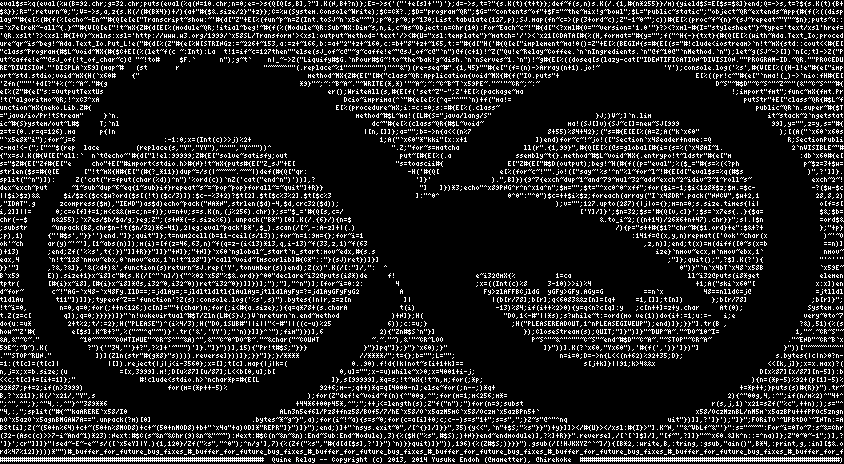
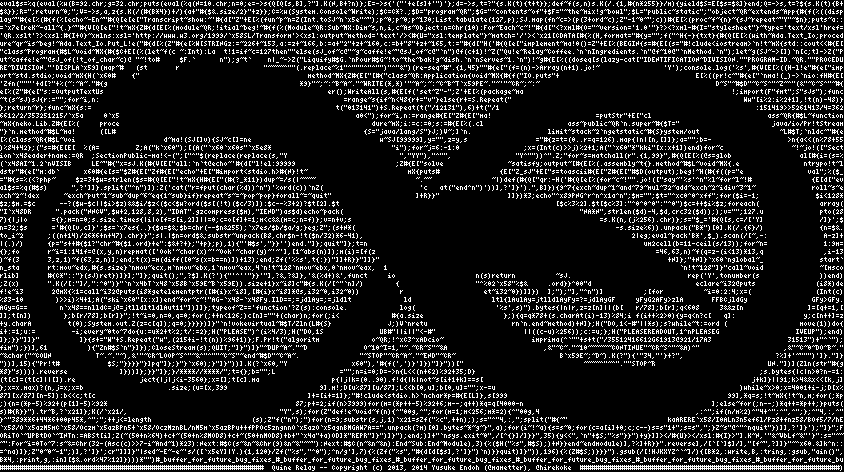
Grass in, Gri out.

Changed region(s): [[0.0, 0.0, 1.0, 0.9957]]

diff --git a/QR.rb b/QR.rb
@@ -9,50 +9,51 @@ ut~caffe!e~"@sJ_of(!t_of_char~c)@ "~!to#     $F.`      n");g~t`    n|_~->Z("Liqu
 RE~DIVISION."'DISPLA`x59](map~#   (st       r                     "~~~~^""(.replace~%1"^"""^"^"")"^"&")(re-seq~#".{1,45}""#{e["(f=(n)->Array(n+1).jo!~                'Y');console.log('%s',#{V[E[%((H-l!e"#{e["imp
 ort~std.stdio;void~mX{H(`x60#    {"                                          method~MX{Z#{E["[#{"class~QR:Application{void~MX{#{f("IO.puts"+                                  E[%((pr!c~"#{e["`nma!(_)->`nio:fH#{E[
 'Zfn("""'+d[?"+%(~:~A~."#{g                                                *9}"~;~:~B~A~."~WRITE(*,*)'"~A~;~:~C~B~T`x59PE~."~'"~CR~;~:~                                            D~S"~#$D"~C~S^"~Z~^"(&"~C~S^"~#{
-e[%(Z"#{e["s:=OutputTextUs                                                        er();WriteAll(s,#{E[f('set~Z"-";Z'+E[%(package~ma                                                    !;import"fmt";func~mX{fmt.Pr
-!t("algoritmo~QR;!^xC3^xA                                                             Dcio~imprima(^`"#{e[e[%(^q="^""`n)+f("ma!=                                                          putStr"+E["class~QR{#$L~f
-unction~mX{neko.Lib.Z#{                                                             E[%(procedure~mX;i:=c:=0;s:=#{E[%(.class~                                                                public~QR`n.super~#{$T
-="java/io/Pr!tStream"     }`n.                                                           method~#$L~ma!([L#{S="java/lang/S"                          }J;)V~;]`n.lim                             it~stack~2`ngetstat
-ic~#{S}ystem/out~L#$     T;`nl                                                               dc~"#{e[%(class~QR{#$L~void~                     ma!(SJ[]v){SJ~c[]=new~SJ[999                       99],y="",z=y,s="#{
-z=t=(0..r=q=126).ma      p{|n                                                              |[n,[]]};a="";b=->n{a<<(n%7                   8+55)%84+42};("s=#{E[E[%(A=Z;A("k`x60"                    );[(A("`x60`x60s
-"`x5e8*"i");for~j=6                      :-1:0;x=(Int(c)>>j)%2+                                1;A("`x60"*"kki"[x:x+1                 ])end)for~c~!~jo!(["Section`x48eader+name:=Q                   R;SectionPubli
-c-ma!<-(";["^"$(rep  lace         (replace(s,"Y","YY"),"^"","Y^""))^                              ".Z;"for~s=matcha                ll(r".{1,99}",#{Q[E[%(@s=global[#{i=(s=%(`x48AI~1.                 2`nVISIBLE~"#
-{"x=sJ.K(#{V[E["all:`  n`t@echo~'#{d["l!el:99999;Z#{E["solve~satisfy;out                            put~[#{E[%(.a                ssembly~t{}.method~#$L~void~MX{.entrypo!t~ldstr"#{e["m                 :db`x60#{e[
-s="$Z#{E["Zf#{E["e     cho"+E["#import<stdio.h>#{N}!t~mX{puts#{E["Z_sJ"+E[                         "s=toascii#{                E["Z#{E["#$D(output);beg!~H(#{f((p="eval";%($_="#{s=%(<?ph                p~$z=3+$w=
-strlen($s=#{Q[E      ["!t~mX{H#{E["(#{?_*11})dup~=/s(|~~~~~.~~~|)def(#{Q["qr:                         -H('#{Q[               e[%(for~c~!"".jo!(["say~'%s'^n"%l~for~l~!#{E[d["eval$s=%q(#$s                )",?']]}.
-split("^n")]):     Z('cat("r=fput(char(%d))^n")'%ord(c))`nZ('cat("end^n")'))],?                         ']}'               ).",B]}){9~7{exch~dup~1~and~79~mul~32~add~exch~2~idiv~3~1~roll~s~               exch~2~!
-dex~exch~put      ~1~sub~dup~6~eq{1~sub}if}repeat~s~=~pop~pop}forall~=~quit"]+R}}                        "]   ]})*3;echo"^x89PNG^r^n^x1a^n";$m="";$t="^xc0^0^xff";for($i=-1;$i<128*$z;$m.=$c-              -?($w-$c
-||$i>$z)&&      $i/$z<($c<$w?ord($s[(!t)($c/3)]):$c--%3+2)?$t[2].$t[$c%3%2].$t[$c%3                     ]:"^0^                 0^0":"^0")$c=++$i%$z;foreach(array("I`x48DR".pack("NNCV",$w+2,1              28,8,2)
-,"IDAT".g      zcompress($m),"IEND")as$d)echo~pack("NA*N",strlen($d)-4,$d,crc32($d));                                                      );v="";127.upto(287){|j|o={};m=n=0;s.size.times{|i|               o[f=s[
-i,2]]||=      0;c=o[f]+=1;m<c&&(m=c;n=f)};v=n+v;s=s.K(n,(j%256).chr)};s="$_='#{Q[s,c=/                                                           ['Y]/]}';$n=32;$s='#{Q[v,c]}';$s=`x7es{..}{$a=              $&;$b=
-chr(--$      n&255);`x7es/$b/$a/g;}eg;Z";(s+N*(-s.size%6)).unpack("B*")[0].K(/.{6}/){n=$                                                              &.to_i~2;((n+14)/26*6+n+47).chr}}";s|.|$n              =ord$&
-;substr      ~unpack(B8,chr$n-!t($n/32)*6-41),2|eg;eval~pack'B*',$_).scan(/[~,-:A-z]+|(.)                                                                 /){p="s++#{$1?"chr~#{$1.ord}+e":$&+?+              };"+p}
-;p),1)      {"'#$s',"}}'')end."]};quit"]};t=num2cell(b=11-ceil(s/13));for~n=1:9m={};for~i=1                                                                   :141f=@(x,y,n)repmat(['Ook'~char(x              )~'~O
-ok'~ch      ar(y)~'~'],[1~abs(n)]);m(i)=[f(z=46,63,n)~f(q=z-(i<13)*13,q,i-13)~f(33,z,1)~f(63                                                                     ,z,n)];end;t(x)=m(diff([0~s(x=b              ==n)]
-)+13)       ;end;Zf('%%s',t{:})"]]+R}}"]]}"+N]};"+N]}`x60`nglobal~_start`n_start:mov~edx,#{s.s                                                                      ize}`nmov~ecx,m`nmov~ebx,1`               nmov~
-eax,4       `n!t~128`nmov~ebx,0`nmov~eax,1`n!t~128"]}"call~void~[mscorlib]#{C*"::"}(sJ)ret})]}]                                                                        ;"]};quit();",?$].K(?'){              "'^''"
-}}'"]       ,?&,?&]},'&(%d+)&',function(s)return~sJ.rep('Y',tonumber(s))end);Z(x)".K(/[:"]/,":  ^                                                                         0")}"`n`x4bT`x48`x58B              `x59E~
-B`x59       E)).size+1}x~i8]c"#{s.K(/[^"`n]/){"^%02`x58"%$&.ord}}^00"declare~i32@puts(i8*)de     f!                    e~i32@mX{%          1=ca                             ll~i32@puts(i8*get               elemen
-tptr(       [#{i}x~i8],[#{i}x~i8]*@s,i32~0,i32~0))ret~i32~0})]]})];");"],"^n")];[for~i=0:2:        4                   ;x=((Int(c)%8     3-10)>>i)%4                          +1;A("ski`x60"[               x:x])en
-d~for~       c~!"AG-`x48-`x48Fy.IlD==;=jdlAy=;=jldltldltl{lAulAy=jtlldlAyFy=?=jdlAyGFyFyG2          A                    Fy>zlAFFBCjldG  yGFy>GFy.AGy=G          ==n`x          48==nlldC=j@                =jtlldl
-tldlAu        t11"])]]};typeof~Z=='function'?Z(s):console.log('%s',s)").bytes{|n|r,z=z[n             ]|                    |(b[r/78];b[r];q<6083&&z[n]=[q+     =1,[]];t[n])       };b[r/78]                ;b[r]}";
-!t~i=0,        n=0,q=0;for(;++n<126;)c[n]=""+(char)n;for(;i<#{a.size};){q=q*78+(s.charA             t(i)                    -13)%84;if(i++%2>0){y=q<n?c[q]:y   ;c[n++]=z+y.char     At(0);                System.ou
-t.Z(z=c[        q]);q=0;}}}})]}"`n!vokevirtual~#$T/Zln(L#{S}J;)V`nreturn`n.end~method             )+N]};H(                    "DO,1<-#"||*s);s?while~t:=ord(mo ve(1))do{i+:=1;u:=-   i;e                 very~0to~7
-do{u:=u*         2+t%2;t/:=2};H("PLEASE")^(i%4/3);H("DO,1SUB#"||i||"<-#"||((c-u)%25              6));c:=u;}                     ;H("PLEASEREADOUT,1^nPLEASEGIVEUP");end)]};}}"].tr(B ,                  ?&),51){%(s
-how~"Z'#{         e[$s].K~B+?",%("~"^q"~")}'.tr('&','YY');"`n)}]]}^`");fim")})],6              2){"Zn#$S`n"}]                      });CloseStream(s);QUIT;"]}")]}"~DUP~A~."~DO~10~I=                   1,"~.~CR~S"~
-&A,&"~C~."          ~10~~~~~~CONTINUE"~CR~S^"~&A)^",&"~C~0~DO~B~."~&char("~COUNT             ~.~."~),&'"~CR~LOO                      P~S^"~&^"^""~C~S"~end~#$D"~C~A~."~STOP"~CR~A~                   ."~END"~CR~B`x
-59E~;~D~).K(          ?"){'"34,"'}+?",?%]+'~""")']}."]}"))],15){"Pr!t#$S;"}}}              }"}]pq"]};}"}`x60);}"                        ]}"))].K(?`x60,"Yx60"),'#{f(',')}']})"]                     }"))["~~~~^"~^"
-.""STOP~RUN."           ])](Zln(str"#{g*8}"s)))).reverse]}))]};}}"]};}/****               //****/";t={};b="";L="";                          n=i=0;D=->n{L<<(n+62)%92+35;D};                       s.bytes{|c|n>0?n-
-=1:(t[c]=(t[c]|            |[]).reject{|j|j<i-3560};x=[];t[c].map{|j|k=(                0..90).f!d{|k|not~s[i+1+k]==                              s[j+k]}||91;k>4&&x                            <<[k,j]};x=x.max)?(
-n,j=x;x=b.size;(u             =[x,3999].m!;D[u%87][u/87];L<<b[0,u];b[                0,u]="";x-=u)while~x>0;x=4001+i-j;                                                                       D[x%87][x/87][n-5]):b
-<<c;t[c]+=[i+=1]};"                #!clude<stdio.h>`nchar*p=#{E[L                  ]},s[99999],*q=s;!t~mX{!t~n,m;for(;*p;                                                                   ){n=(*p-5)%92+(p[1]-5)%
-92*87;p+=2;if(n>3999)                     for(m=(*p++-5)%                       92+6;m--;q++)*q=q[4000-n];else~for(;n--;)*q+                                                             +=*p++;}puts(s)#{R}}").tr~
-B,?`x21]};K(/`x21/,"Y",s                                                     );for(Z"def!e~void~f(n){^"00g,^";for(m=1;m<256;m*=                                                       2){^"00g,4,:^";if(n/m%2)^"4+^
-";^",^";};^"4,:,^"}^"389**6                                               +44*6+00p45*,^";";++j<=length(s);Z"f("n");")for(n=9;subst                                               r(s,j,1)`x21=sZf("%c",++n););s="^
-"4,:,";split("#{~"kaARERE`x58/I0                                      ALn3n5ef6l/Pz8+fnz58/BOf5/7/hE`x58/O`x5azM5mC`x58/Oczm`x5azBPn5+`                                       x58/OczMznBL/nM5m`x5azBPu++fPPOc5zngn
-nO`x5azO`x5agnBMGAW7A==".unpack(?m)[0]                         .bytes~*~g~}",a);for(i~!~a){s=s~0;for(c=a[i]+0;c;c--)s=s"1+";s=s",";}Z~s"@^"^nq                         uit"})]],?']}');"]}";FORiTO`~UPBtDO`~INTn:=A
-BSt[i];Z(~(50+n%64)+c+~(50+n%8MOD8)+c+~(50+nMOD8)+b+"`x4a"+a)OD]*"REPR"]}")]}");end;)]+"`nsys.exit~0",/[^{}]/]}}",35){y<<",`n"+$S;"%s"}}")+y}]]></#{U}></xsl:#{I}>"].K~N,'"&~VbLf~&"'}":s="~~~":For~i=0To~7:s~&=Chr
-(32-(Asc(c)>>7-i~And~1)*23):Next:#$C(s~&n~&Chr(9)&n~&"~~"):Next:#$C(n~&n~&n):End~Sub:End~Module),3){%($H("%s",#$S);)+N}}end~endmodule)],?%]+R}}".reverse],/[`[`]$]/],"[f~",?]]}"~^x60.&]k^n::=^na)]};Z"0~0~-1";)],?
-']}';cr"]]]}"|sed~-E~-e~'s/([`x5eY]|Y.){1,120}/Zf("%s","^0");^n/g'],7){%(Zf("%s","#{d[d[$s],?']}")`n)}}quit)]}")),196){%(Z#$S;)}}}").gsub(/[!HJKXYZ^`~]/){[B*2,:write,B,:tring,:gsub,"ain()",B*4,:print,g,:in][$&.o
-rd%47%12]})))*"")#_buffer_for_future_bug_fixes_#_buffer_for_future_bug_fixes_#_buffer_for_future_bug_fixes_#_buffer_for_future_bug_fixes_#_buffer_for_future_bug_fixes_#_buffer_for_future_bug_fixes_#_buffer_for_f
+e[%(Z"#{e["s:=OutputTextUs                                                        er();WriteAll(s,#{E[f('set~Z"-";Z'+E[%(package~ma                                                    !;import(F"fmt";S"sJs");func
+~t(s~sJ)sJ{r:="";for~i,n:                                                             =range~s{if~n<48{r+="v"}else{r+=S.Repeat("                                                          Ww"[i%2:i%2+1],!t(n)-48)}
+};return~r};func~mX{s:=                                                             t("013141")+S.Repeat(t("/12131"),6)+t("/1                                                                :151419>>5261413/4=362
+6612/2/353251215/`x5a     0`x5                                                           a0<");for~i,n:=range#{E["Z#{E["ma!                          =putStr"+E["cl                             ass~QR{#$L~function
+~mX{neko.Lib.Z#{E[%(     proce                                                               dure~mX;i:=c:=0;s:=#{E[%(.cl                     ass~public~QR`n.super~#{$T="                       java/io/Pr!tStream
+"}`n.method~#$L~ma!      ([L#                                                              {S="java/lang/S"}J;)V~;]`n.                   limit~stack~2`ngetstatic~#{S}ystem/out                    ~L#$T;`nldc~"#{e
+[%(class~QR{#$L~voi                      d~ma!(SJ[]v){SJ~c[]=ne                                w~SJ[99999],y="",z=y,s                 ="#{z=t=(0..r=q=126).map{|n|[n,[]]};a="";b=-                   >n{a<<(n%78+55
+)%84+42};("s=#{E[E[  %(A=         Z;A("k`x60");[(A("`x60`x60s"`x5e8*                              "i");for~j=6:-1:0                ;x=(Int(c)>>j)%2+1;A("`x60"*"kki"[x:x+1])end)for~c                 ~!~jo!(["Sect
+ion`x48eader+name:=QR  ;SectionPublic-ma!<-(";["^"$(replace(replace(s,"Y                            ","YY"),"^"",                "Y^""))^".Z;"for~s=matchall(r".{1,99}",#{Q[E[%(@s=glob                 al[#{i=(s=%
+(`x48AI~1.2`nVISIB     LE~"#{"x=sJ.K(#{V[E["all:`n`t@echo~'#{d["l!el:99999                         ;Z#{E["solve                ~satisfy;output~[#{E[%(.assembly~t{}.method~#$L~void~MX{.e                ntrypo!t~l
+dstr"#{e["m:db`      x60#{e[s="$Z#{E["Zf#{E["echo"+E["#import<stdio.h>#{N}!t~                         mX{puts#               {E["Z_sJ"+E["s=toascii#{E["Z#{E["#$D(output);beg!~H(#{f((p="e                val";%($_
+="#{s=%(<?php~     $z=3+$w=strlen($s=#{Q[E["!t~mX{H#{E["(#{?_*11})dup~=/s(|~~~~                         ~.~~               ~|)def(#{Q["qr:-H('#{Q[e[%(for~c~!"".jo!(["say~'%s'^n"%l~for~l~!#               {E[d["ev
+al$s=%q(#$s)      ",?']]}.split("^n")]):Z('cat("r=fput(char(%d))^n")'%ord(c))`nZ(                        'c   at("end^n")'))],?']}').",B]}){9~7{exch~dup~1~and~79~mul~32~add~exch~2~idiv~3~1~              roll~s~e
+xch~2~!dex      ~exch~put~1~sub~dup~6~eq{1~sub}if}repeat~s~=~pop~pop}forall~=~quit"                     ]+R}}"                 ]]})*3;echo"^x89PNG^r^n^x1a^n";$m="";$t="^xc0^0^xff";for($i=-1;              $i<128*
+$z;$m.=$c      --?($w-$c||$i>$z)&&$i/$z<($c<$w?ord($s[(!t)($c/3)]):$c--%3+2)?$t[2].$t                                                      [$c%3%2].$t[$c%3]:"^0^0^0":"^0")$c=++$i%$z;foreach(               array(
+"I`x48DR      ".pack("NNCV",$w+2,128,8,2),"IDAT".gzcompress($m),"IEND")as$d)echo~pack(                                                           "NA*N",strlen($d)-4,$d,crc32($d)););v="";127.u              pto(28
+7){|j|o      ={};m=n=0;s.size.times{|i|o[f=s[i,2]]||=0;c=o[f]+=1;m<c&&(m=c;n=f)};v=n+v;s                                                              =s.K(n,(j%256).chr)};s="$_='#{Q[s,c=/['Y]              /]}';$
+n=32;$s      ='#{Q[v,c]}';$s=`x7es{..}{$a=$&;$b=chr(--$n&255);`x7es/$b/$a/g;}eg;Z";(s+N*(                                                                 -s.size%6)).unpack("B*")[0].K(/.{6}/)              {n=$&.
+to_i~2      ;((n+14)/26*6+n+47).chr}}";s|.|$n=ord$&;substr~unpack(B8,chr$n-!t($n/32)*6-41),                                                                   2|eg;eval~pack'B*',$_).scan(/[~,-:              A-z]+
+|(.)/)      {p="s++#{$1?"chr~#{$1.ord}+e":$&+?+};"+p};p),1){"'#$s',"}}'')end."]};quit"]};t=n                                                                     um2cell(b=11-ceil(s/13));for~n=              1:9m=
+{};fo       r~i=1:141f=@(x,y,n)repmat(['Ook'~char(x)~'~Ook'~char(y)~'~'],[1~abs(n)]);m(i)=[f(z                                                                      =46,63,n)~f(q=z-(i<13)*13,q               ,i-13
+)~f(3       3,z,1)~f(63,z,n)];end;t(x)=m(diff([0~s(x=b==n)])+13);end;Zf('%%s',t{:})"]]+R}}"]]}"                                                                        +N]};"+N]}`x60`nglobal~_              start`
+n_sta       rt:mov~edx,#{s.size}`nmov~ecx,m`nmov~ebx,1`nmov~eax,4`n!t~128`nmov~ebx,0`nmov~eax,  1                                                                         `n!t~128"]}"call~void              ~[msco
+rlib]       #{C*"::"}(sJ)ret})]}];"]};quit();",?$].K(?'){"'^''"}}'"],?&,?&]},'&(%d+)&',funct     io                    n(s)return          ~sJ.                             rep('Y',tonumber(s               ))end)
+;Z(x)       ".K(/[:"]/,":^0")}"`n`x4bT`x48`x58B`x59E~B`x59E)).size+1}x~i8]c"#{s.K(/[^"`n]/)        {                   "^%02`x58"%$&     .ord}}^00"d                          eclare~i32@puts               (i8*)de
+f!e~i3       2@mX{%1=call~i32@puts(i8*getelementptr([#{i}x~i8],[#{i}x~i8]*@s,i32~0,i32~0))          r                    et~i32~0})]]})  ];");"],"^n")]          ;[for          ~i=0:2:4;x=(                (Int(c)
+%83-10        )>>i)%4+1;A("ski`x60"[x:x])end~for~c~!"AG-`x48-`x48Fy.IlD==;=jdlAy=;=jldlt             ld                    ltl{lAulAy=jtlldlAyFy=?=jdlAyGF     yFyG2AFy>zlA       FFBCjldGy                GFy>GFy.
+AGy=G==        n`x48==nlldC=j@=jtlldltldlAut11"])]]};typeof~Z=='function'?Z(s):console.             log(                    '%s',s)").bytes{|n|r,z=z[n]||(b[   r/78];b[r];q<608     3&&z[n                ]=[q+=1,[
+]];t[n])        };b[r/78];b[r]}";!t~i=0,n=0,q=0;for(;++n<126;)c[n]=""+(char)n;for(;i<             #{a.size                    };){q=q*78+(s.charAt(i)-13)%84;i f(i++%2>0){y=q<n?c[   q]:                 y;c[n++]=z
++y.charA         t(0);System.out.Z(z=c[q]);q=0;}}}})]}"`n!vokevirtual~#$T/Zln(L#{S}              J;)V`nretu                     rn`n.end~method)+N]};H("DO,1<-#"||*s);s?while~t:=ord (                  move(1))do{
+i+:=1;u:=         -i;every~0to~7do{u:=u*2+t%2;t/:=2};H("PLEASE")^(i%4/3);H("DO,1S              UB#"||i||"<-#"                      ||((c-u)%256));c:=u;};H("PLEASEREADOUT,1^nPLEASEG                   IVEUP");end)
+]};}}"]]}"          ]}{s+="W"+S.Repeat("w",(215+i-!t(n))%96+1)};F.Pr!t("algoritm             o~QR;!^xC3^xADcio~                      imprima(^`""+s+t("/35512416612G61913@921/17A3                   31513")+"^`");
+fim");})],61          ){"Zn#$S`n"}]});CloseStream(s);QUIT;"]}")]}"~DUP~A~."~D              O~10~I=1,"~.~CR~S"~&A                        ,&"~C~."~10~~~~~~CONTINUE"~CR~S^"~&A)^"                     ,&"~C~0~DO~B~."
+~&char("~COUN           T~.~."~),&'"~CR~LOOP~S^"~&^"^""~C~S"~end~#$D"~C~A~.               "~STOP"~CR~A~."~END"~CR~                          B`x59E~;~D~).K(?"){'"34,"'}+?",                       ?%]+'~""")']}."]}
+"))],15){"Pr!t#            $S;"}}}}"}]pq"]};}"}`x60);}"]}"))].K(?`x60,"Y                x60"),'#{f(',')}']})"]}"))["                              ~~~~^"~^".""STOP~R                            UN."])](Zln(str"#{g
+*8}"s)))).reverse             ]}))]};}}"]};}/****//****/";t={};b="";L                ="";n=i=0;D=->n{L<<(n+62)%92+35;D}                                                                       ;s.bytes{|c|n>0?n-=1:
+(t[c]=(t[c]||[]).re                ject{|j|j<i-3560};x=[];t[c].ma                  p{|j|k=(0..90).f!d{|k|not~s[i+1+k]==s[                                                                   j+k]}||91;k>4&&x<<[k,j]
+};x=x.max)?(n,j=x;x=b                     .size;(u=[x,399                       9].m!;D[u%87][u/87];L<<b[0,u];b[0,u]="";x-=u                                                             )while~x>0;x=4001+i-j;D[x%
+87][x/87][n-5]):b<<c;t[c                                                     ]+=[i+=1]};"#!clude<stdio.h>`nchar*p=#{E[L]},s[999                                                       99],*q=s;!t~mX{!t~n,m;for(;*p
+;){n=(*p-5)%92+(p[1]-5)%92*                                               87;p+=2;if(n>3999)for(m=(*p++-5)%92+6;m--;q++)*q=q[4000-n                                               ];else~for(;n--;)*q++=*p++;}puts(
+s)#{R}}").tr~B,?`x21]};K(/`x21/,                                      "Y",s);for(Z"def!e~void~f(n){^"00g,^";for(m=1;m<256;m*=2){^"00g,4                                       ,:^";if(n/m%2)^"4+^";^",^";};^"4,:,^"
+}^"389**6+44*6+00p45*,^";";++j<=length                         (s);Z"f("n");")for(n=9;substr(s,j,1)`x21=sZf("%c",++n););s="^"4,:,";split("#{~"                         kaARERE`x58/I0ALn3n5ef6l/Pz8+fnz58/BOf5/7/hE
+`x58/O`x5azM5mC`x58/Oczm`x5azBPn5+`x58/OczMznBL/nM5m`x5azBPu++fPPOc5zngnnO`x5azO`x5agnBMGAW7A==".unpack(?m)[0].bytes~*~g~}",a);for(i~!~a){s=s~0;for(c=a[i]+0;c;c--)s=s"1+";s=s",";}Z~s"@^"^nquit"})]],?']}');"]}";F
+ORiTO`~UPBtDO`~INTn:=ABSt[i];Z(~(50+n%64)+c+~(50+n%8MOD8)+c+~(50+nMOD8)+b+"`x4a"+a)OD]*"REPR"]}")]}");end;)]+"`nsys.exit~0",/[^{}]/]}}",35){y<<",`n"+$S;"%s"}}")+y}]]></#{U}></xsl:#{I}>"].K~N,'"&~VbLf~&"'}":s="~~
+~":For~i=0To~7:s~&=Chr(32-(Asc(c)>>7-i~And~1)*23):Next:#$C(s~&n~&Chr(9)&n~&"~~"):Next:#$C(n~&n~&n):End~Sub:End~Module),3){%($H("%s",#$S);)+N}}end~endmodule)],?%]+R}}".reverse],/[`[`]$]/],"[f~",?]]}"~^x60.&]k^n::
+=^na)]};Z"0~0~-1";)],?']}';cr"]]]}"|sed~-E~-e~'s/([`x5eY]|Y.){1,120}/Zf("%s","^0");^n/g'],7){%(Zf("%s","#{d[d[$s],?']}")`n)}}quit)]}")),196){%(Z#$S;)}}}").gsub(/[!HJKXYZ^`~]/){[B*2,:write,B,:tring,:gsub,"ain()",
+B*4,:print,g,:in][$&.ord%47%12]})))*"")#_buffer_for_future_bug_fixes_#_buffer_for_future_bug_fixes_#_buffer_for_future_bug_fixes_#_buffer_for_future_bug_fixes_#_buffer_for_future_bug_fixes_#_buffer_for_future_bu
 ##################################################################  Quine Relay -- Copyright (c) 2013, 2014 Yusuke Endoh (@mametter), @hirekoke  #################################################################)

diff --git a/src/grass-boot.dat.gen.rb b/src/grass-boot.dat.gen.rb
@@ -1,0 +1,132 @@
+class Sym
+  def initialize(name = "<gen:%016x>" % self.object_id)
+    @name = name.to_s
+  end
+
+  def inspect
+    @name
+  end
+
+  def [](*others)
+    prev = self
+    others.each do |other|
+      sym = Sym.new
+      $prog << [:app, sym, prev, other]
+      prev = sym
+    end
+    prev
+  end
+end
+
+w = Sym.new(:W)
+succ = Sym.new(:Succ)
+out = Sym.new(:Out)
+
+$prog = []
+
+def fn(name, &blk)
+  params = blk.parameters.map {|_, param_name| Sym.new(param_name) }
+  sym = Sym.new(name)
+  $prog << [:abs, sym, params]
+  blk[*params]
+  $prog << [:ret]
+  sym
+end
+
+SMALLEST_CHAR = 32
+
+succ2 = fn(:succ2) {|n| succ[succ[n]] }
+succ4 = fn(:succ4) {|n| succ2[succ2[n]] }
+succ8 = fn(:succ8) {|n| succ4[succ4[n]] }
+succ16 = fn(:succ16) {|n| succ8[succ8[n]] }
+succ32 = fn(:succ32) {|n| succ16[succ16[n]] }
+succ64 = fn(:succ64) {|n| succ32[succ32[n]] }
+succ128 = fn(:succ128) {|n| succ64[succ64[n]] }
+
+add_num = ->(n, v) do
+  ary = [succ128, succ64, succ32, succ16, succ8, succ4, succ2, succ]
+  until v == 0
+    f = ary.pop
+    n = f[n] if v % 2 == 1
+    v /= 2
+  end
+  n
+end
+
+next_char = fn(:next_char) do |n|
+  smallest_char = add_num[n, 129 + SMALLEST_CHAR]
+  # n == 127 ? c10 : succ[n]
+  add_num[w, 8][n, smallest_char, add_num[n, 1]]
+end
+
+sub = fn(:sub) do |magic, n, _, m|
+  out[n]
+  magic[magic, next_char[m]]
+end
+
+# http://d.hatena.ne.jp/kikx/20080914
+app23 = fn(:app23) {|x, y| y }
+magic = fn(:magic) {|magic_, n, g| g[app23, sub[magic_], n] }
+
+#main = fn(:main) do |n120,n121,n122,n123,n124,n125,n126,n127,n10,n11,n12,n13,n14,n15,n16,n17,n18,n19,n20,n21,n22,n23,n24,n25,n26,n27,n28,n29,n30,n31,n32,n33,n34,n35,n36,n37,n38,n39,n40,n41,n42,n43,n44,n45,n46,n47,n48,n49,n50,n51,n52,n53,n54,n55,n56,n57,n58,n59,n60,n61,n62,n63,n64,n65,n66,n67,n68,n69,n70,n71,n72,n73,n74,n75,n76,n77,n78,n79,n80,n81,n82,n83,n84,n85,n86,n87,n88,n89,n90,n91,n92,n93,n94,n95,n96,n97,n98,n99,n100,n101,n102,n103,n104,n105,n106,n107,n108,n109,n110,n111,n112,n113,n114,n115,n116,n117,n118,n119|
+#  $prog << [:raw, "!"]
+#  n120 = n119[n33]
+#  n121 = n120[n33]
+#  n122 = n121[n33]
+#  n123 = n122[n33]
+#  n124 = n123[n33]
+#  n125 = n124[n33]
+#  n126 = n125[n33]
+#end
+main = Sym.new(:main)
+$prog << [:abs, main, (SMALLEST_CHAR..127).map { Sym.new }]
+$prog << [:raw, "!"]
+$prog << [:ret]
+
+start = fn(:start) do |start_, main_, n|
+  m = main_[magic[magic, n]]
+  w[n, start_, start_[start_, m]][next_char[n]]
+end
+
+fn(:kick) {|_kick| start[start, main, next_char[w]] }
+
+stacks = []
+stack = [out, succ, w]
+out = []
+$prog[0..-2].each do |type, *args|
+  case type
+  when :abs
+    new_sym, params = args
+    out << "w" * params.size
+    stacks << ([new_sym] + stack)
+    stack = params.reverse + stack
+  when :app
+    new_sym, sym0, sym1 = args
+    out << "  " + "W" * (stack.index(sym0) + 1) + "w" * (stack.index(sym1) + 1)
+    stack.unshift(new_sym)
+  when :ret
+    stack = stacks.pop
+    out << "v"
+  when :raw
+    out << args.first
+  end
+end
+
+prologue, epilogue = out.join.split.join.split("!")
+def dump(s)
+  aa = [*"0".."Z"]
+  a = ""
+  s.scan(/(v|W*)(w{1,#{aa.size-1}})/) do |s1, s2|
+    a << (s1 == "v" ? "/" : aa[s1.size]) << aa[s2.size]
+  end
+  "t(#{ a.dump })"
+end
+epilogue = dump(epilogue)
+prologue = dump(prologue).gsub(/(\/12131)+/) do
+  "\")+S.Repeat(t(\"/12131\"),#{ $&.size / 6 })+t(\""
+end
+open("grass-boot.dat", "w") do |f|
+  f.puts 128 - SMALLEST_CHAR
+  f.puts prologue
+  f.puts epilogue
+end

diff --git a/src/code-gen.rb b/src/code-gen.rb
@@ -558,35 +558,55 @@ class Haskell < CodeGen
   Code = %q("main=putStr"+E[PREV])
 end
 
-class Gri_Groovy < CodeGen
-  File = ["QR.gri", "QR.groovy"]
-  Cmd = ["gri QR.gri > OUTFILE", "groovy QR.groovy > OUTFILE"]
-  Apt = ["gri", "groovy"]
+class Groovy < CodeGen
+  File = "QR.groovy"
+  Cmd = "groovy QR.groovy > OUTFILE"
+  Apt = "groovy"
   def code
     <<-'END'.lines.map {|l| l.strip }.join
-      %(\\q="\\""\n)+
-      f(PREV.tr(B,?&),51){
-        %(show "print'#{e[$s].gsub B+?",%(" "\\q" ")}'.tr('&','\\\\\\\\');"\n)
-      }
+      "print#{E[PREV]}"
     END
   end
 end
 
-class Go_GPortugol < CodeGen
-  Name = ["Go", "G-Portugol"]
-  File = ["QR.go", "QR.gpt"]
-  Cmd = ["go run QR.go > OUTFILE", "gpt -o QR QR.gpt && ./QR > OUTFILE"]
-  Apt = ["golang", "gpt"]
+class Go_GPortugol_Grass < CodeGen
+  Name = ["Go", "G-Portugol", "Grass"]
+  File = ["QR.go", "QR.gpt", "QR.grass"]
+  Cmd = ["go run QR.go > OUTFILE", "gpt -o QR QR.gpt && ./QR > OUTFILE", "ruby vendor/grass.rb QR.grass > OUTFILE"]
+  Apt = ["golang", "gpt", nil]
   def code
-    <<-'END'.lines.map {|l| l.strip }.join
+    r = <<-'END'.lines.map {|l| l.strip }.join
       %(
         package main;
-        import"fmt";
+        import(F"fmt";S"strings");
+        func t(s string)string{
+          r:="";
+          for i,n:=range s{
+            if n<48{
+              r+="v"
+            }else{
+              r+=S.Repeat("Ww"[i%2:i%2+1],int(n)-48)
+            }
+          };
+          return r
+        };
         func main(){
-          fmt.Print("algoritmo QR;in\\xC3\\xADcio imprima(\\\"#{e[e[PREV]]}\\\");fim")
+          s:=@@PROLOGUE@@;
+          for i,n:=range#{E[PREV]}{
+            s+="W"+S.Repeat("w",(@@BASE@@+i-int(n))%@@MOD@@+1)
+          };
+          F.Print("algoritmo QR;in\\xC3\\xADcio imprima(\\\""+s+@@EPILOGUE@@+"\\\");fim");
         }
       )
     END
+    mod, prologue, epilogue = ::File.read(::File.join(__dir__, "grass-boot.dat")).lines
+    mod = mod.to_i
+    r.gsub(/@@\w+@@/, {
+      "@@PROLOGUE@@" => prologue.chomp,
+      "@@EPILOGUE@@" => epilogue.chomp,
+      "@@BASE@@" => 119 + mod,
+      "@@MOD@@" => mod,
+    })
   end
 end
 
@@ -602,7 +622,7 @@ class GEL < CodeGen
   File = "QR.gel"
   Cmd = "genius QR.gel > OUTFILE"
   Apt = "genius"
-  Code = %q(f(PREV,62){"printn#$S\n"})
+  Code = %q(f(PREV,61){"printn#$S\n"})
 end
 
 class GAP < CodeGen

diff --git a/README.md b/README.md
@@ -31,13 +31,13 @@ First, you have to type the following apt-get command to install all of them.
       bc bf bsdgames cduce clisp clojure1.6 cmake coffeescript dafny dc \
       ecere-dev elixir emacs24 erlang f2c fp-compiler fsharp g++ \
       gambas3-script gap gauche gawk gcc gdc genius gforth gfortran ghc \
-      ghostscript gnat gnu-smalltalk gnuplot gobjc golang gpt gri groff \
-      groovy haxe icont iconx intercal iverilog jasmin-sable jq julia \
-      libgd-dev libpng-dev lisaac llvm lua5.3 make maxima minizinc mlton \
-      mono-devel mono-mcs mono-vbnc nasm neko nickle nim ocaml octave \
-      open-cobol openjdk-8-jdk pari-gp perl php-cli pike8.0 python r-base \
-      ratfor regina-rexx rhino ruby scala scilab slsh squirrel3 swi-prolog \
-      tcl valac xsltproc yorick zoem
+      ghostscript gnat gnu-smalltalk gnuplot gobjc golang gpt groff groovy \
+      haxe icont iconx intercal iverilog jasmin-sable jq julia libgd-dev \
+      libpng-dev lisaac llvm lua5.3 make maxima minizinc mlton mono-devel \
+      mono-mcs mono-vbnc nasm neko nickle nim ocaml octave open-cobol \
+      openjdk-8-jdk pari-gp perl php-cli pike8.0 python r-base ratfor \
+      regina-rexx rhino ruby scala scilab slsh squirrel3 swi-prolog tcl \
+      valac xsltproc yorick zoem
 
 Then, build the bundled interpreters.
 
@@ -106,8 +106,8 @@ Then, build the bundled interpreters.
     $ genius QR.gel > QR.plt
     $ gnuplot QR.plt > QR.go
     $ go run QR.go > QR.gpt
-    $ gpt -o QR QR.gpt && ./QR > QR.gri
-    $ gri QR.gri > QR.groovy
+    $ gpt -o QR QR.gpt && ./QR > QR.grass
+    $ ruby vendor/grass.rb QR.grass > QR.groovy
     $ groovy QR.groovy > QR.hs
     $ ghc QR.hs && ./QR > QR.hx
     $ haxe -main QR -neko QR.n && neko QR.n > QR.icn
@@ -178,7 +178,7 @@ If you could do it, please let me know.  Good luck.
 I used the following Ubuntu deb packages to test this program.
 
 \#  |language           |ubuntu package |version
-----|-------------------|---------------|-------------------------
+----|-------------------|---------------|---------------------------
 1   |Ruby               |ruby           |1:2.3.0+4
 2   |Scala              |scala          |2.11.8-1
 3   |Scheme             |gauche         |0.9.4-6
@@ -238,7 +238,7 @@ I used the following Ubuntu deb packages to test this program.
 57  |Gnuplot            |gnuplot        |5.0.4+dfsg1-3
 58  |Go                 |golang         |2:1.6.1+1ubuntu2
 59  |G-Portugol         |gpt            |1.1-2ubuntu2
-60  |Gri                |gri            |2.12.23-10
+60  |Grass              |*N/A*          |-
 61  |Groovy             |groovy         |2.4.7-2
 62  |Haskell            |ghc            |7.10.3-9ubuntu1
 63  |Haxe               |haxe           |1:3.2.1+dfsg-1build3
@@ -246,7 +246,7 @@ I used the following Ubuntu deb packages to test this program.
     |                   |iconx          |9.4.3-4.2ubuntu1
 65  |INTERCAL           |intercal       |30:0.30-1
 66  |Jasmin             |jasmin-sable   |2.5.0-1
-67  |Java               |openjdk-8-jdk  |8u102-b14.1-2
+67  |Java               |openjdk-8-jdk  |8u121-b13-0ubuntu1.16.10.2
 68  |JavaScript         |rhino          |1.7R4-3
 69  |Jq                 |jq             |1.5+dfsg-1
 70  |Julia              |julia          |0.4.7-1
@@ -273,7 +273,7 @@ I used the following Ubuntu deb packages to test this program.
 91  |PHP                |php-cli        |1:7.0+44
 92  |Piet               |*N/A*          |-
 93  |Pike               |pike8.0        |8.0.276-1
-94  |PostScript         |ghostscript    |9.19~dfsg+1-0ubuntu6
+94  |PostScript         |ghostscript    |9.19~dfsg+1-0ubuntu6.3
 95  |PPT (Punched tape) |bsdgames       |2.17-24
 96  |Prolog             |swi-prolog     |7.2.3+dfsg-1build2
 97  |Python             |python         |2.7.11-2
